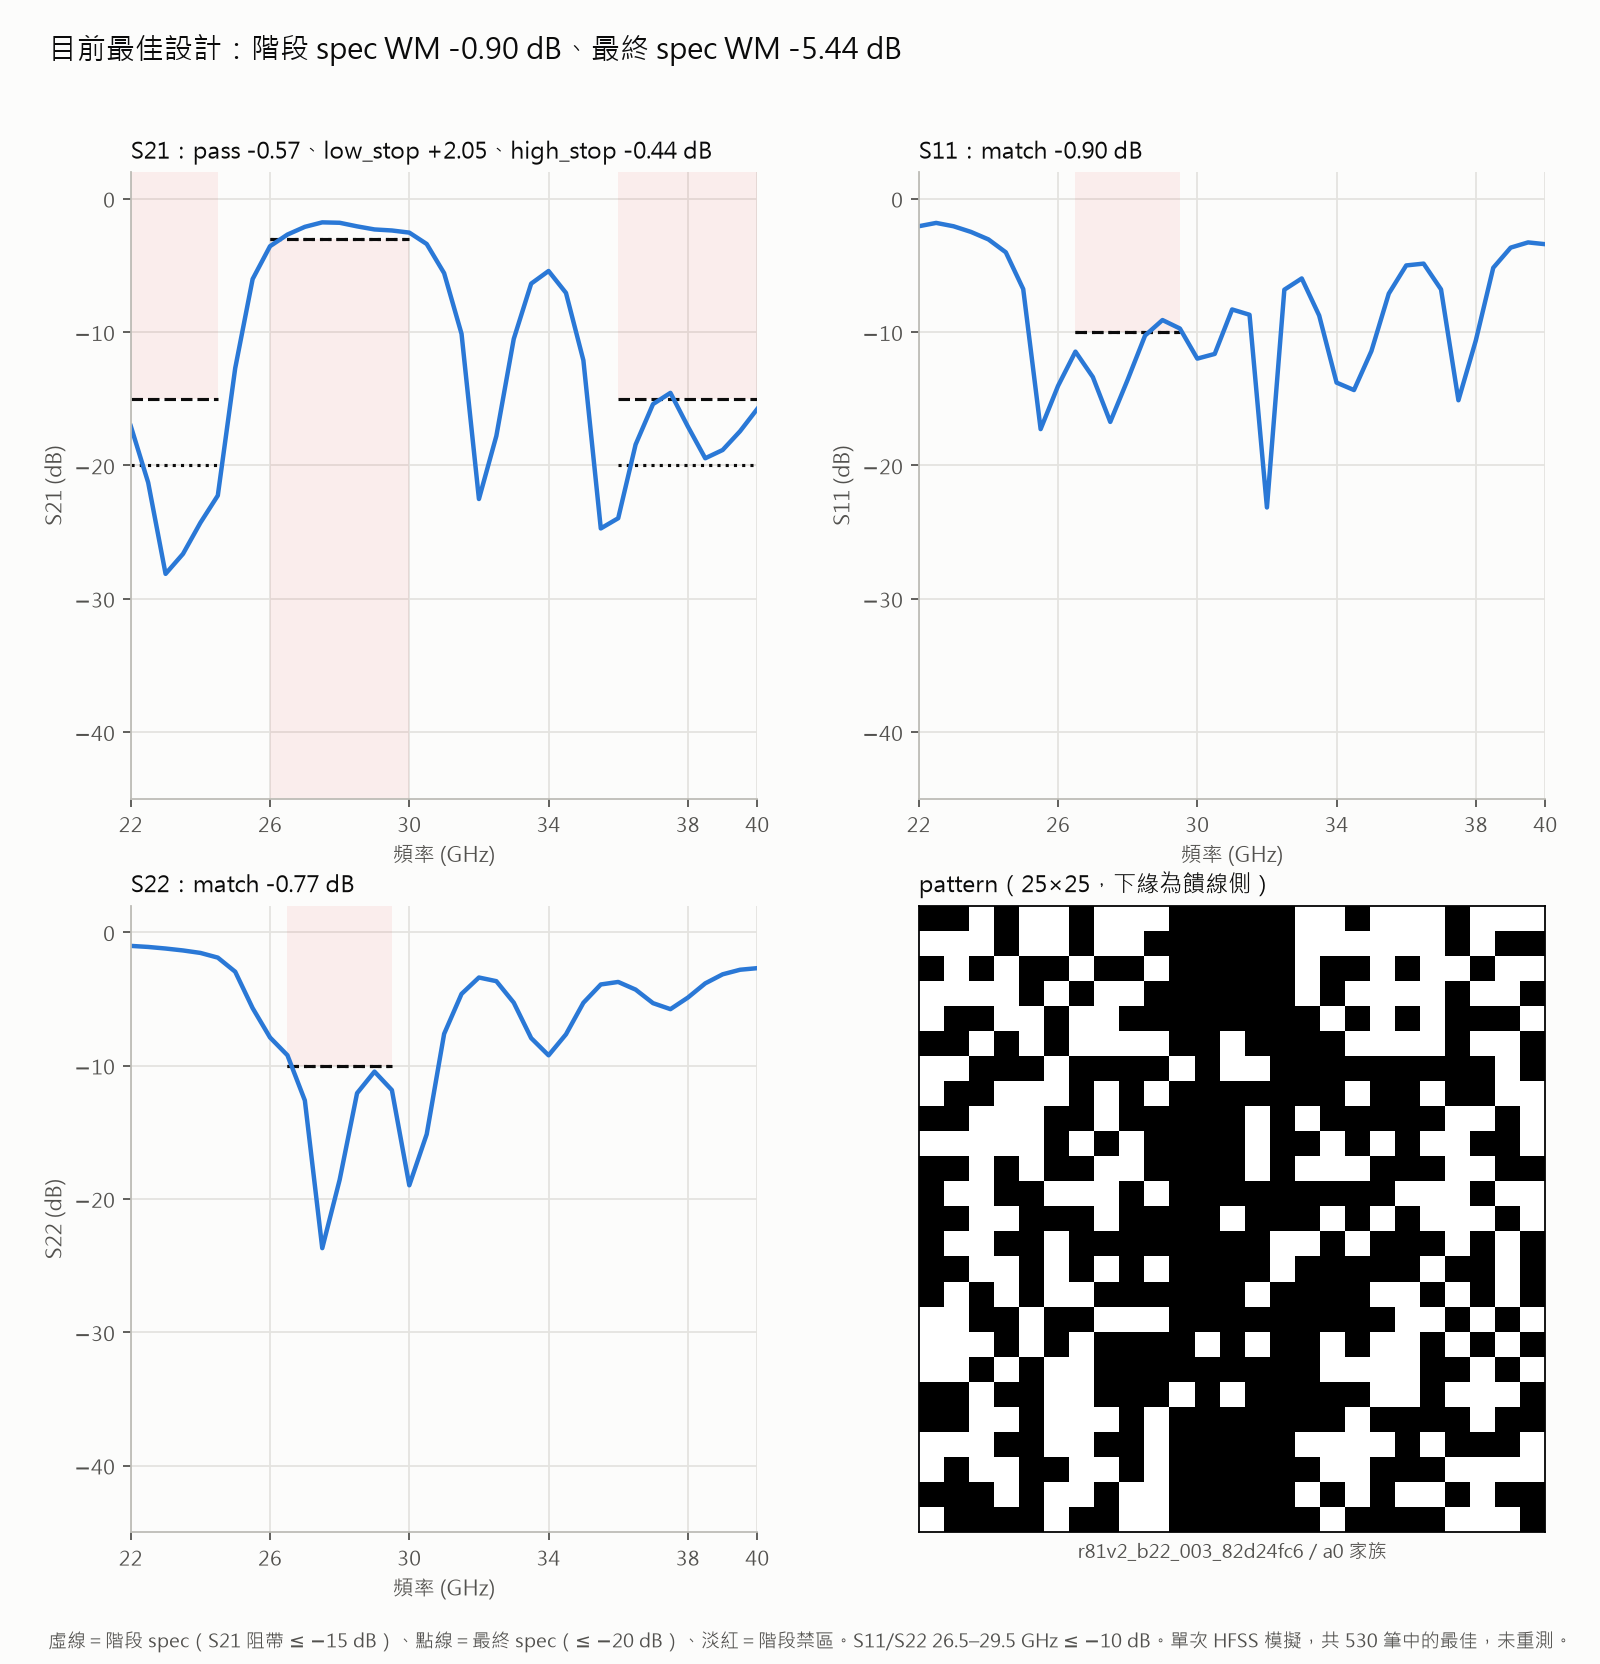
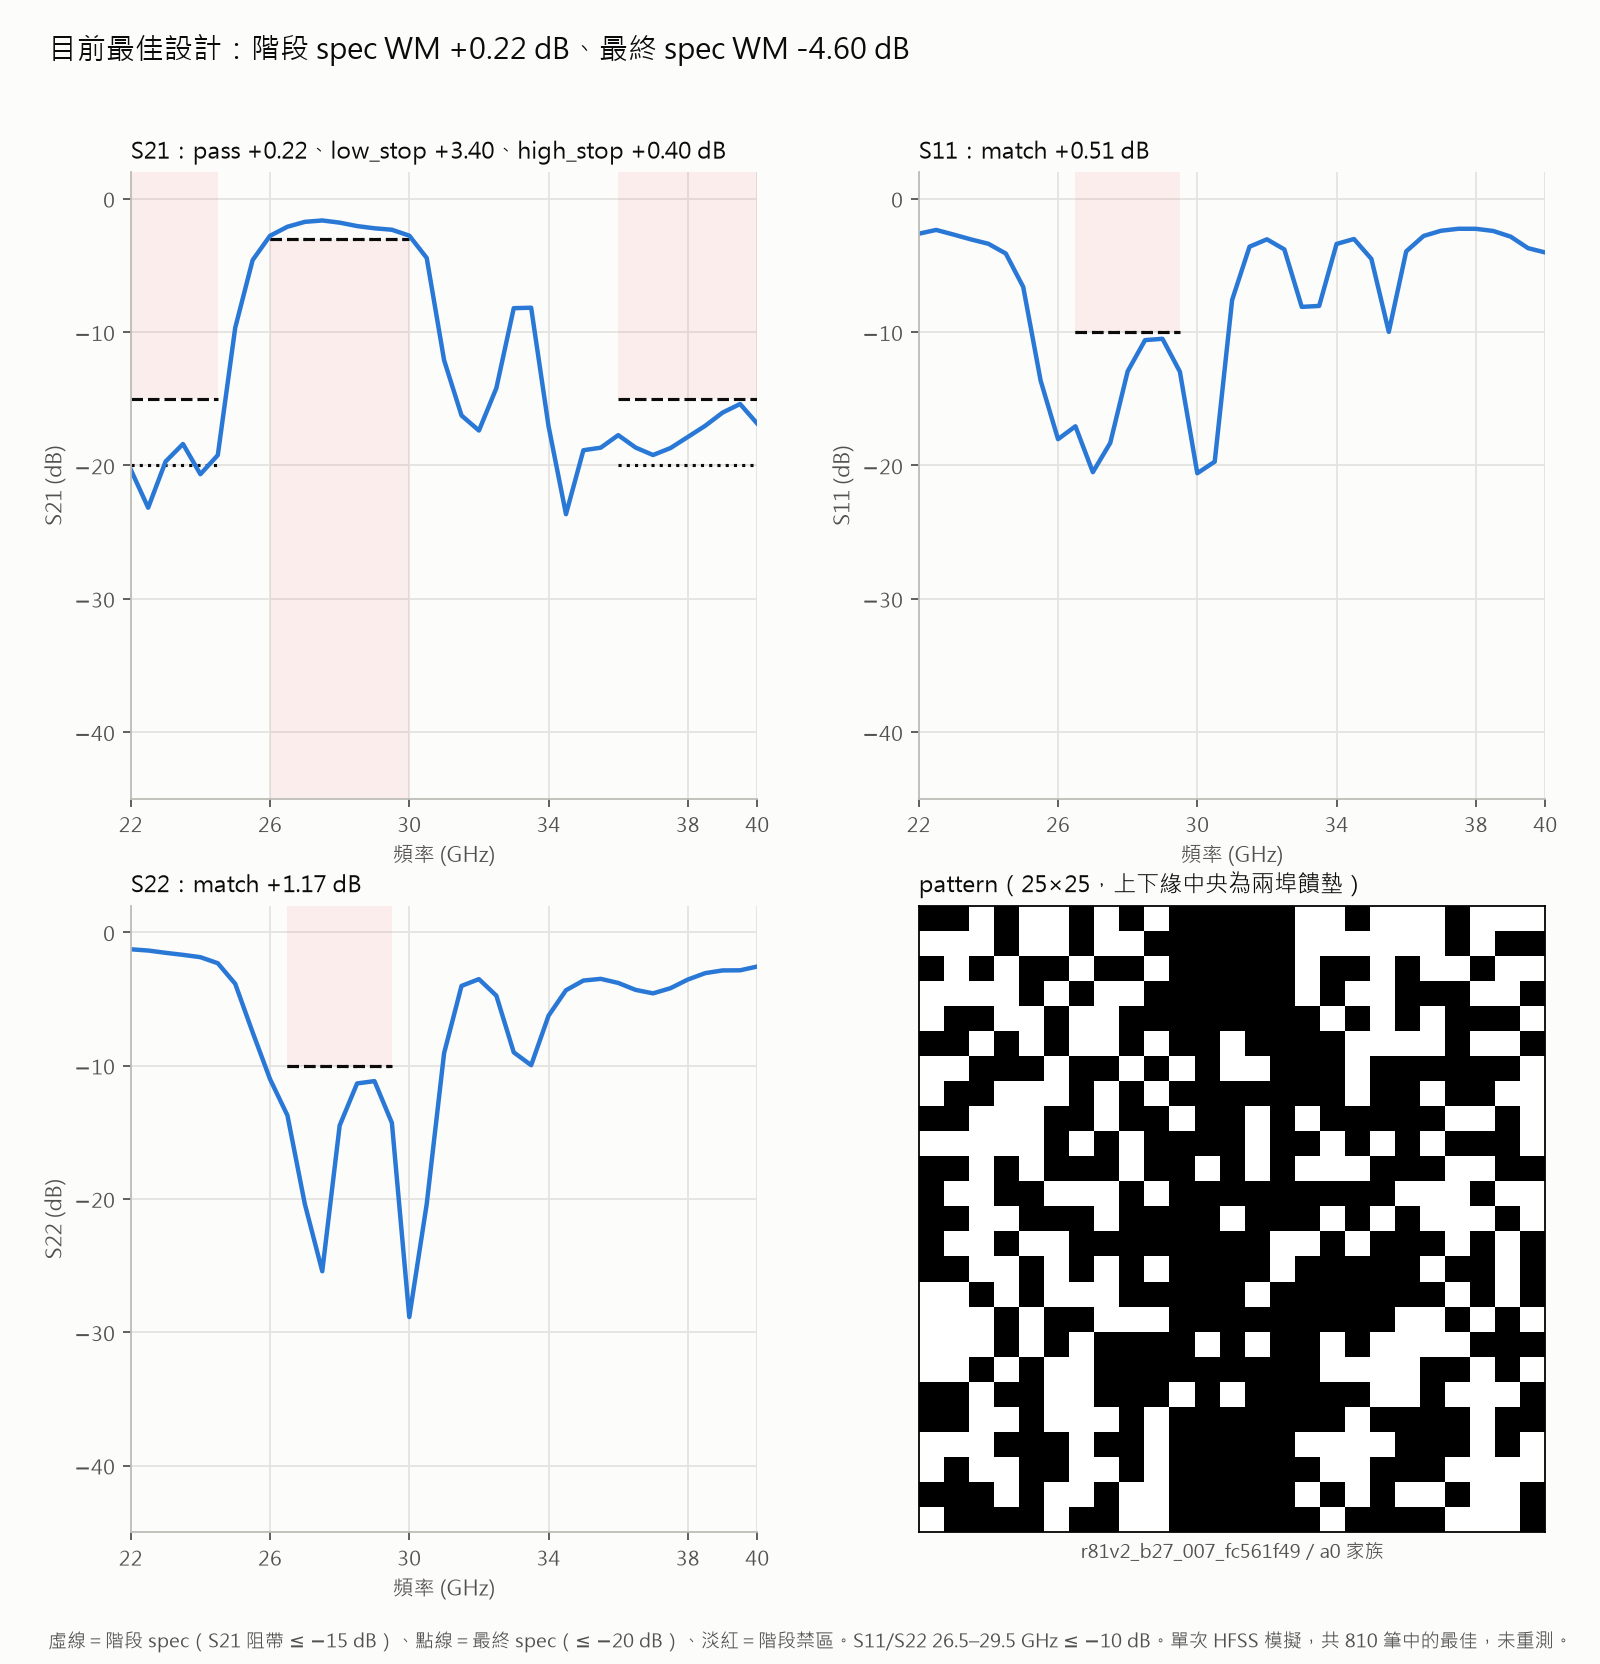
fig(r81): v4a 四筆公證通過設計的卡片（S21/S11/S22＋pattern），修 pattern 饋墊標註
dual 兩埠饋墊在上下緣中央，原標「下緣為饋線側」是單埠天線的慣例，改正。
新增 script/figs/r81_design_card.py：指定設計 id 出卡片，自動帶跨機重測結果。

diff --git a/script/figs/r81_design_card.py b/script/figs/r81_design_card.py
@@ -1,0 +1,53 @@
+"""R81 指定設計的單張卡片（S21／S11／S22 各一格＋pattern，2×2 正方形），附重測結果。
+
+用法：python -m script.figs.r81_design_card <輸出資料夾> <設計 id> [<設計 id> ...]
+       [--primary configs/dual_r81_v4a.yaml] [--final configs/dual_r81_v4.yaml]
+重測（id~rep1）若存在，標題一併列出原件與重測 WM。
+"""
+import argparse
+from pathlib import Path
+
+import matplotlib
+matplotlib.use("Agg")
+import matplotlib.pyplot as plt
+
+from script import r81_curve_sm as sm
+from script.figs import r81_progress as rp
+
+
+def main(argv=None):
+    ap = argparse.ArgumentParser()
+    ap.add_argument("outdir", type=Path)
+    ap.add_argument("ids", nargs="+")
+    ap.add_argument("--primary", type=Path, default=sm.REPO / "configs" / "dual_r81_v4a.yaml")
+    ap.add_argument("--final", type=Path, default=sm.REPO / "configs" / "dual_r81_v4.yaml")
+    args = ap.parse_args(argv)
+    plt.rcParams["font.family"] = ["Microsoft JhengHei", "sans-serif"]
+    primary, final = sm.load_cfg(args.primary), sm.load_cfg(args.final)
+    grid = sm.frequency_grid(primary.measurement)
+    root = sm.WIDE_ROOT / "v2_v001" / "dataset"
+    rows = {}
+    for store in sorted(root.glob("dedust_r81v*")):
+        if (store / "results.json").exists() and (store / "measurement.json").exists():
+            for r in sm.load_store(store, grid):
+                a, b = sm.true_wm(r, primary, grid), sm.true_wm(r, final, grid)
+                if a and b:
+                    r.update(wm=a["worst_margin"], wm_final=b["worst_margin"], margins=a["margins"])
+                    rows[r["id"]] = r
+    args.outdir.mkdir(parents=True, exist_ok=True)
+    for i in args.ids:
+        r = rows[i]
+        rep = rows.get(i + "~rep1")
+        out = args.outdir / f"card_{i}.png"
+        note = f"（跨機重測 {rep['wm']:+.2f} dB，公證通過）" if rep and rep["wm"] > 0 else "（單次，未公證）"
+        fig = rp.best_figure(out, r, grid, primary, final, len(rows),
+                             scope_note="原件單次 HFSS；重測為另一台機器同一圖形重跑。")
+        fig.suptitle(f"{i}：階段 spec WM {r['wm']:+.2f} dB {note}／最終 spec WM {r['wm_final']:+.2f} dB",
+                     x=0.03, ha="left", fontsize=12, color=rp.INK)
+        fig.savefig(out, facecolor=rp.SURF)
+        plt.close(fig)
+        print("saved", out)
+
+
+if __name__ == "__main__":
+    main()

diff --git a/script/figs/r81_progress.py b/script/figs/r81_progress.py
@@ -71,7 +71,7 @@ def curve_panel(ax, grid, y, label, primary, final, margins):
     ax.set_box_aspect(1)
 
 
-def best_figure(out, best, grid, primary, final, n_rows):
+def best_figure(out, best, grid, primary, final, n_rows, scope_note=None):
     fig, axes = plt.subplots(2, 2, figsize=(10, 10.4), dpi=160)
     fig.patch.set_facecolor(SURF)
     for ax, (k, lab) in zip((axes[0, 0], axes[0, 1], axes[1, 0]), ((1, "S21"), (0, "S11"), (2, "S22"))):
@@ -79,15 +79,16 @@ def best_figure(out, best, grid, primary, final, n_rows):
     px = axes[1, 1]
     px.imshow(best["pattern"].reshape(25, 25), cmap="Greys", origin="upper", interpolation="nearest")
     px.set_xticks([]); px.set_yticks([])
-    px.set_title("pattern（25×25，下緣為饋線側）", loc="left", fontsize=10.5, color=INK)
+    px.set_title("pattern（25×25，上下緣中央為兩埠饋墊）", loc="left", fontsize=10.5, color=INK)
     px.set_xlabel(f"{best['id']}／{best['lineage']} 家族", fontsize=8.5, color=MUTED)
     fig.suptitle(f"目前最佳設計：階段 spec WM {best['wm']:+.2f} dB、最終 spec WM {best['wm_final']:+.2f} dB",
                  x=0.03, ha="left", fontsize=13, color=INK)
     fig.text(0.03, 0.01, "虛線＝階段 spec（S21 阻帶 ≤ −15 dB）、點線＝最終 spec（≤ −20 dB）、淡紅＝階段禁區。"
-             f"S11/S22 26.5–29.5 GHz ≤ −10 dB。單次 HFSS 模擬，共 {n_rows} 筆中的最佳，未重測。",
+             "S11/S22 26.5–29.5 GHz ≤ −10 dB。" + (scope_note or f"單次 HFSS 模擬，共 {n_rows} 筆中的最佳，未重測。"),
              fontsize=8.5, color=MUTED)
     fig.tight_layout(rect=(0, 0.03, 1, 0.96))
     fig.savefig(out, facecolor=SURF)
+    return fig
 
 
 def progress_figure(out, rows):
